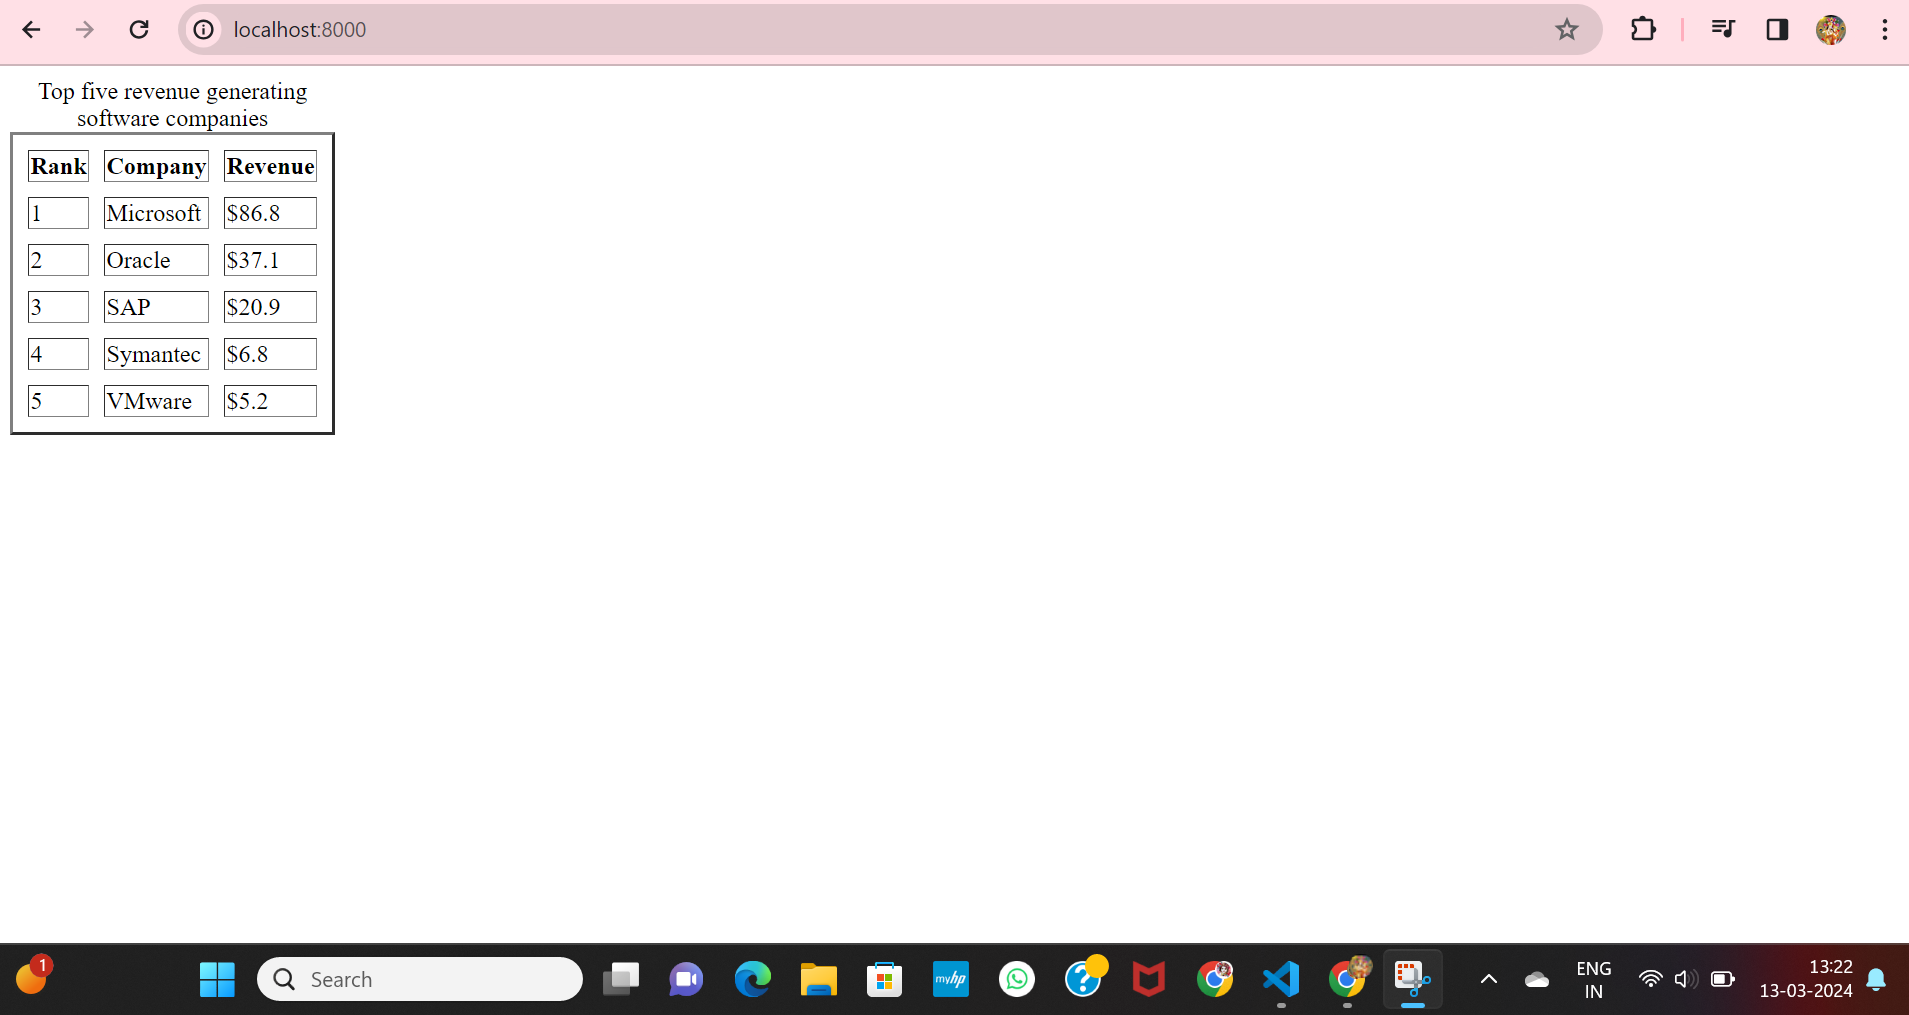
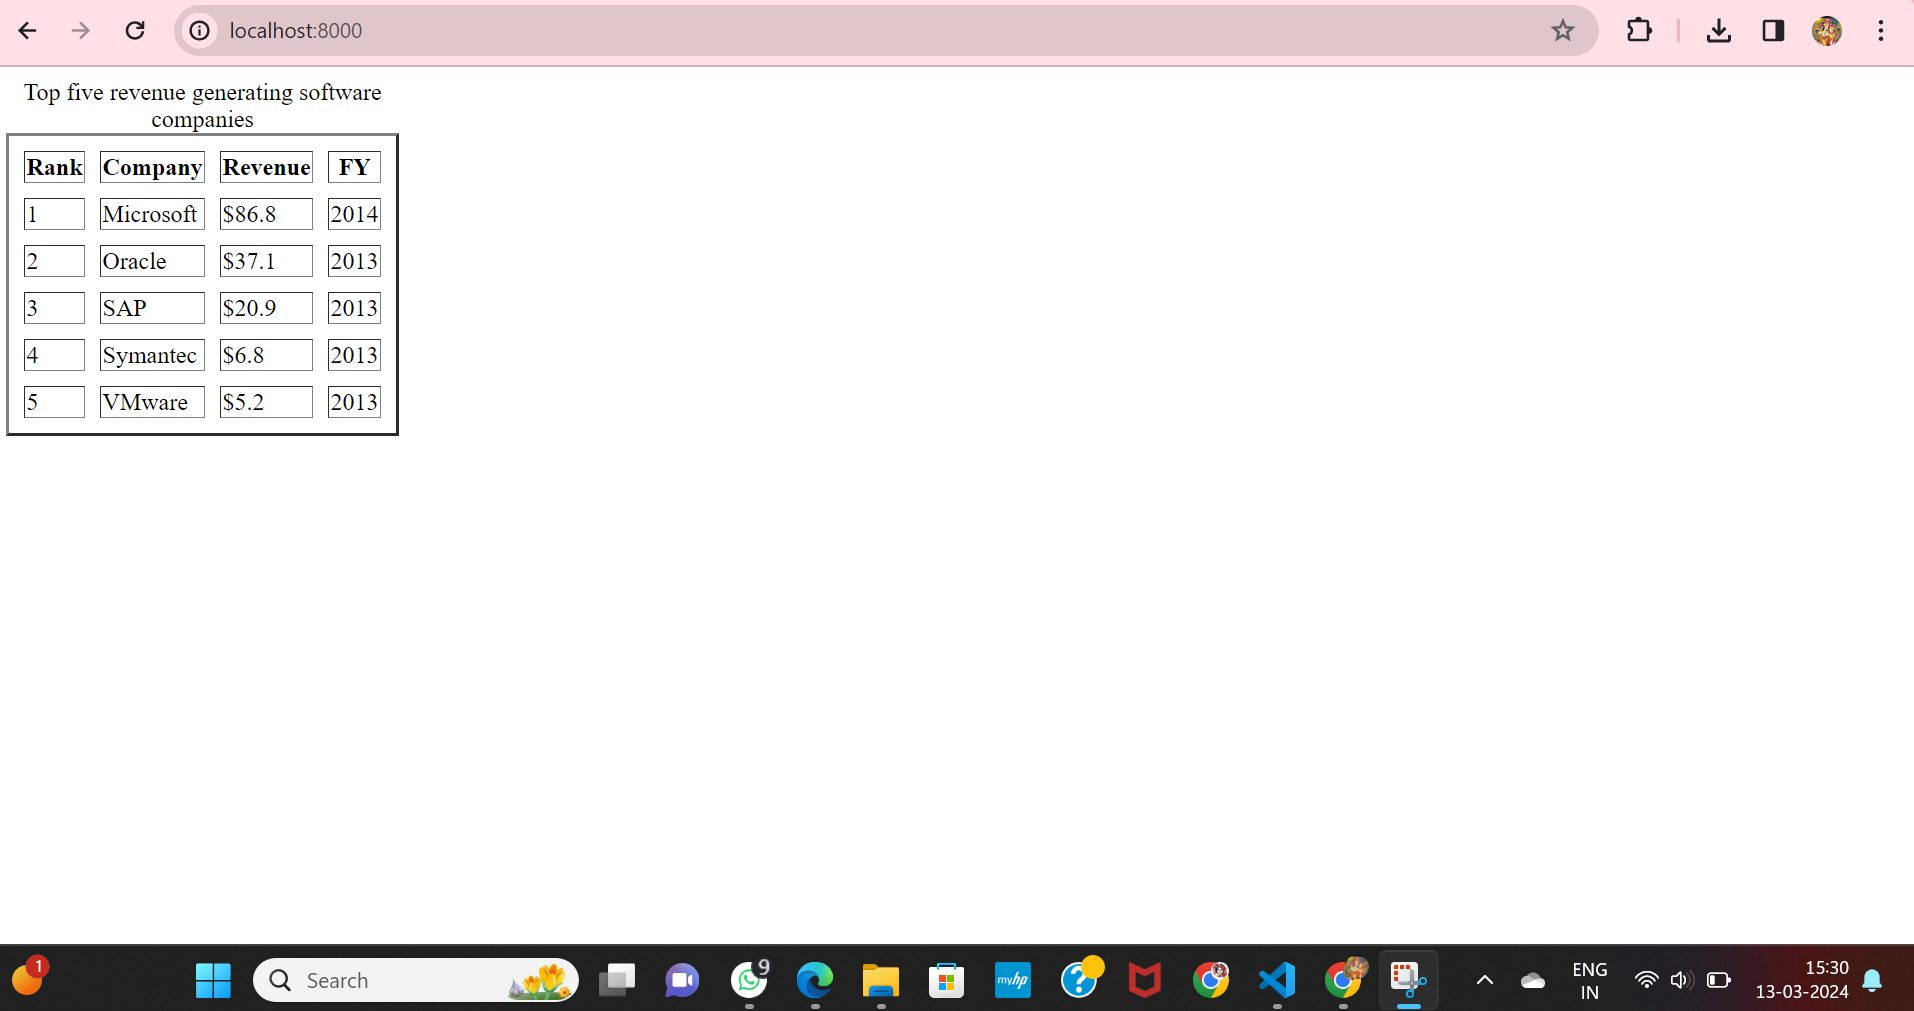
Success

diff --git a/web.py b/web.py
@@ -10,31 +10,37 @@ content = """
                     <th>Rank</th>
                     <th>Company</th>
                     <th>Revenue</th>
+                    <th>FY</th>
                </tr>
                <tr>
                     <td>1</td>
                     <td>Microsoft</td>
                     <td>$86.8</td>
+                    <td>2014</td>
                </tr>
                <tr>
                     <td>2</td>
                     <td>Oracle</td>
                     <td>$37.1</td>
+                    <td>2013</td>
                </tr>
                <tr>
                     <td>3</td>
                     <td>SAP</td>
                     <td>$20.9</td>
+                    <td>2013</td>
                </tr>
                <tr>
                     <td>4</td>
                     <td>Symantec</td>
                     <td>$6.8</td>
+                    <td>2013</td>
                </tr>
                <tr>
                     <td>5</td>
                     <td>VMware</td>
                     <td>$5.2  </td>
+                    <td>2013</td>
                </tr> 
           </table>
      </body>

diff --git a/README.md b/README.md
@@ -34,31 +34,37 @@ content = """
                     <th>Rank</th>
                     <th>Company</th>
                     <th>Revenue</th>
+                    <th>FY</th>
                </tr>
                <tr>
                     <td>1</td>
                     <td>Microsoft</td>
                     <td>$86.8</td>
+                    <td>2014</td>
                </tr>
                <tr>
                     <td>2</td>
                     <td>Oracle</td>
                     <td>$37.1</td>
+                    <td>2013</td>
                </tr>
                <tr>
                     <td>3</td>
                     <td>SAP</td>
                     <td>$20.9</td>
+                    <td>2013</td>
                </tr>
                <tr>
                     <td>4</td>
                     <td>Symantec</td>
                     <td>$6.8</td>
+                    <td>2013</td>
                </tr>
                <tr>
                     <td>5</td>
                     <td>VMware</td>
                     <td>$5.2  </td>
+                    <td>2013</td>
                </tr> 
           </table>
      </body>
@@ -76,6 +82,8 @@ server_address = ('',8000)
 httpd = HTTPServer(server_address,myhandler)
 print("my webserver is running...")
 httpd.serve_forever()
+</html>
+
 ```
 
 ## OUTPUT:
